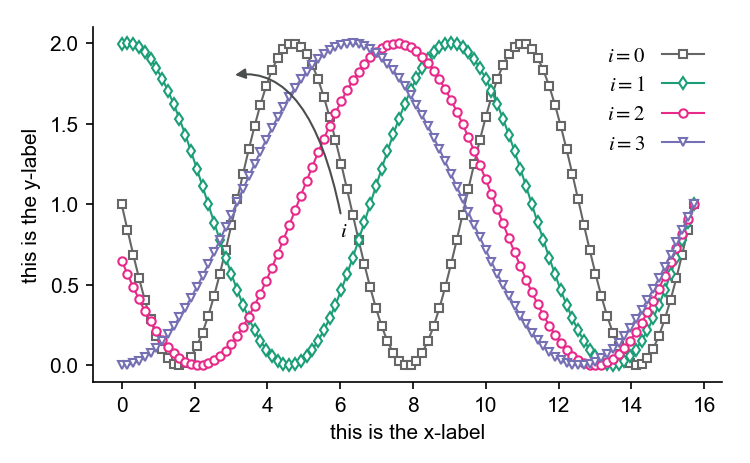
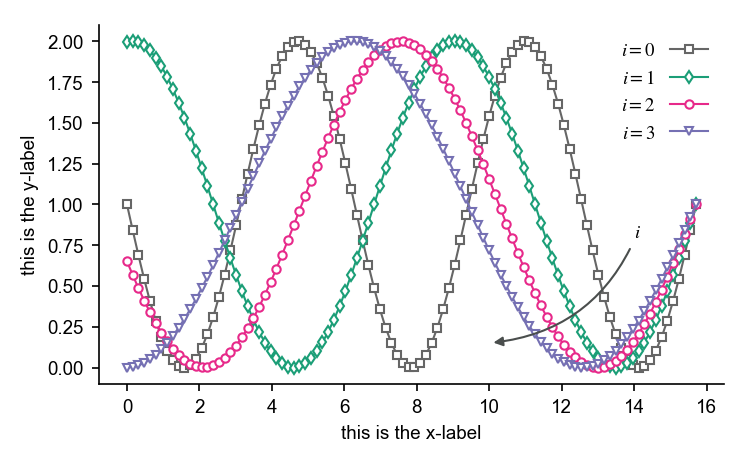
changed arrow procedure

Changed region(s): [[0.0307, 0.0605, 0.9813, 0.9676], [0.7973, 0.0907, 0.9507, 0.3326], [0.828, 0.5443, 0.8587, 0.5745]]

diff --git a/bfmplot/tools.py b/bfmplot/tools.py
@@ -44,8 +44,7 @@ def arrow(ax,
           xy_end,
           text_position = 'end',
           coords = 'data',
-          angleA = 10,
-          angleB = -80,
+          rad = 0.3,
           linewidth=None,
           lw=None,
           color=None,
@@ -79,10 +78,8 @@ def arrow(ax,
         'figure fraction' : fraction of the figure in [0,1]
         Other styles:
         https://matplotlib.org/api/_as_gen/matplotlib.pyplot.annotate.html
-    angleA : float (default : 10)
-        Angle on the beginning of the arrow in degrees.
-    angleB : float (default : 10)
-        Angle on the end of the arrow in degrees.
+    rad : float (default : 0.3)
+        Curvature on the arrow. Can be negative
     linewidth or lw : float (default : 1.0)
         Width of the arrow in points.
     color or c : any matplotlib color (default : '#4a4e4d')
@@ -101,7 +98,7 @@ def arrow(ax,
     if text_position == 'start':
         arrowstyle = '-|>'
         xy_start, xy_end = xy_end, xy_start
-        angleA, angleB = angleB, angleA
+        rad *= -1
 
     if color is not None:
         c = color
@@ -133,7 +130,7 @@ def arrow(ax,
                 xytext = xy_end, 
                 textcoords = coords,
                 arrowprops = dict(arrowstyle = arrowstyle,
-                                  connectionstyle = "angle3,angleA={0},angleB={1}".format(angleA, angleB),
+                                  connectionstyle = "arc3,rad={0}".format(rad),
                                   facecolor = fc,
                                   edgecolor = ec,
                                   **arrow_kwargs

diff --git a/sandbox/test.py b/sandbox/test.py
@@ -16,7 +16,7 @@ def sin_test(n=8,text_position='start'):
     leg = pl.legend()
     bp.align_legend_right(leg)
 
-    bp.arrow(pl.gca(), r'$i$', (6, 0.8), (3, 1.8), text_position=text_position)
+    bp.arrow(pl.gca(), r'$i$', (14, 0.8), (10, 0.15), text_position=text_position, rad=0.3)    
 
     pl.xlabel('this is the x-label')
     pl.ylabel('this is the y-label')
